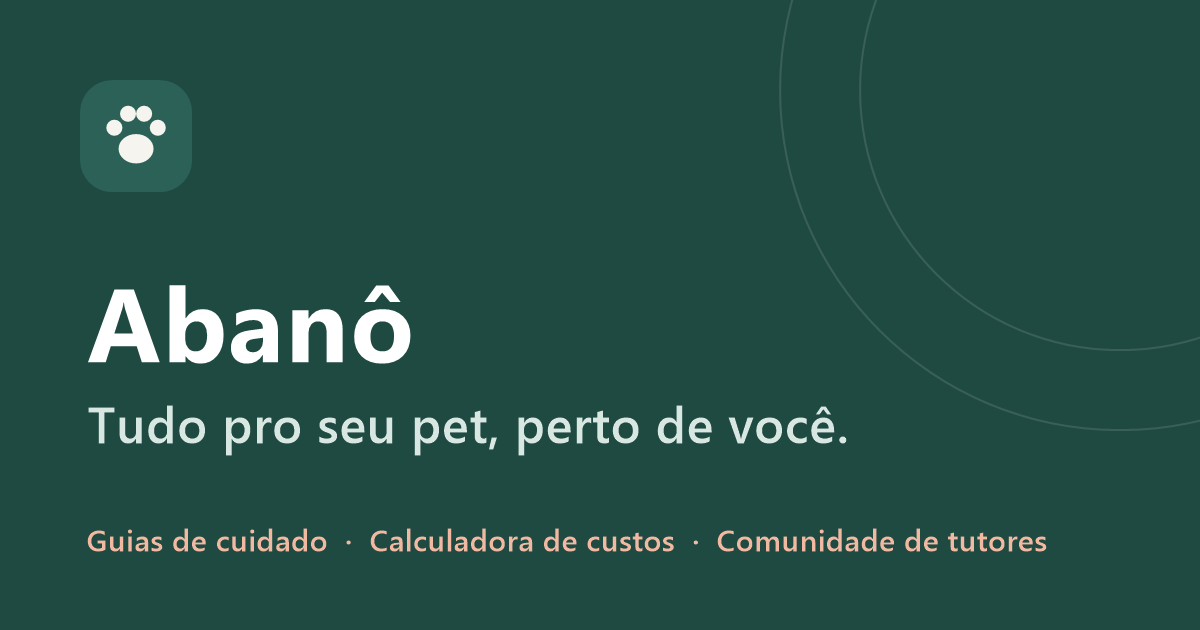
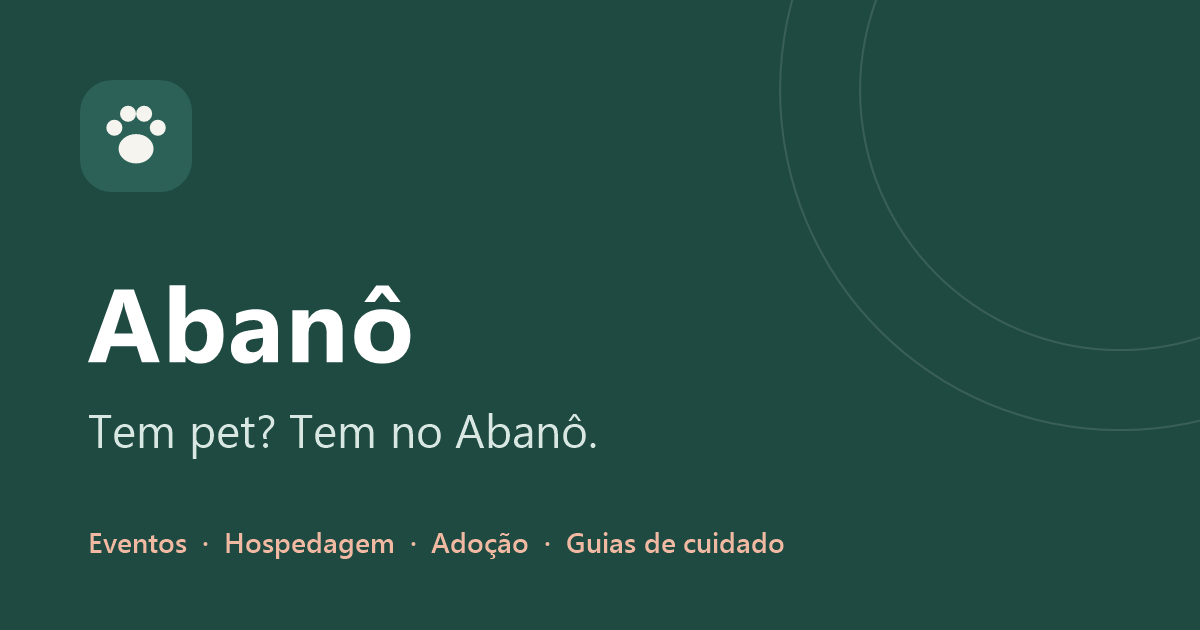
Novo posicionamento: Tem pet? Tem no Abanô.
Página inicial com a nova frase, cards de eventos, hospedagem,
adoção e doador de sangue, rodapés e imagem de compartilhamento.

Changed region(s): [[0.0617, 0.6333, 0.7092, 0.7238], [0.0617, 0.8444, 0.8942, 0.9048]]

diff --git a/index.html b/index.html
@@ -3,10 +3,10 @@
 <head>
 <meta charset="UTF-8">
 <meta name="viewport" content="width=device-width, initial-scale=1.0, viewport-fit=cover">
-<title>Abanô — tudo pro seu pet, perto de você</title>
-<meta name="description" content="Abanô: o ponto de encontro dos tutores de cães e gatos. Guia, calculadora de custos, pets perdidos e encontrados, encontros e muito mais. Entre na lista de espera!">
-<meta property="og:title" content="Abanô — tudo pro seu pet, perto de você">
-<meta property="og:description" content="O ponto de encontro dos tutores de cães e gatos. Entre na lista de espera!">
+<title>Abanô — Tem pet? Tem no Abanô.</title>
+<meta name="description" content="Tem pet? Tem no Abanô. Eventos, hospedagem, veterinários, adoção, pets perdidos e guias de cuidado para cães e gatos, tudo num lugar só e perto de você. Entre na lista de espera!">
+<meta property="og:title" content="Tem pet? Tem no Abanô.">
+<meta property="og:description" content="Eventos, hospedagem, veterinários, adoção e pets perdidos perto de você. Tudo pra cães e gatos, num lugar só.">
 <link rel="icon" href="favicon.svg" type="image/svg+xml">
 <link rel="icon" href="favicon-32.png" sizes="32x32" type="image/png">
 <link rel="apple-touch-icon" href="apple-touch-icon.png">
@@ -28,7 +28,7 @@
   /* ---------- Abertura ---------- */
   .hero{display:grid;grid-template-columns:1.1fr .9fr;gap:64px;align-items:center;padding-top:76px;padding-bottom:96px}
   .hero h1{font-size:clamp(42px,6.2vw,72px);margin:20px 0 22px}
-  .hero h1 em{font-style:normal;color:var(--marca)}
+  .hero h1 em{font-style:normal;color:var(--marca);white-space:nowrap}
   .lead{font-size:19px;color:var(--suave);max-width:520px}
   .acoes{display:flex;flex-wrap:wrap;gap:12px;margin-top:34px}
   .assinatura{display:flex;align-items:center;gap:12px;margin-top:40px;font-size:14px;color:var(--suave)}
@@ -111,12 +111,14 @@
     .hero{grid-template-columns:1fr;gap:48px;padding-top:48px;padding-bottom:64px}
     .cabeca{grid-template-columns:1fr;gap:12px}
     .cards{grid-template-columns:1fr 1fr}
+    .cards > :last-child:nth-child(odd){grid-column:1 / -1}
     .historia{grid-template-columns:1fr;gap:20px;padding:44px 28px}
     .espera{grid-template-columns:1fr;gap:36px}
     section{padding:64px 0}
   }
   @media (max-width:600px){
     .cards{grid-template-columns:1fr}
+    .cards > :last-child:nth-child(odd){grid-column:auto}
     .duas{grid-template-columns:1fr;gap:0}
     .previa{padding:22px}
     .previa-valor{font-size:44px}
@@ -148,8 +150,8 @@
   <div class="wrap hero">
     <div>
       <span class="eyebrow surge" style="--i:0">Para tutores de cães e gatos</span>
-      <h1 class="surge" style="--i:1">Tudo pro seu pet, <em>perto de você.</em></h1>
-      <p class="lead surge" style="--i:2">O Abanô reúne o que todo tutor procura: guias de cuidado confiáveis, ferramentas práticas, pets perdidos e encontrados, encontros e serviços avaliados por quem também tem pet.</p>
+      <h1 class="surge" style="--i:1">Tem pet? <em>Tem no Abanô.</em></h1>
+      <p class="lead surge" style="--i:2">Eventos, hospedagem, veterinários, adoção, pets perdidos e guias de cuidado perto de você. Tudo pra cães e gatos, num lugar só.</p>
       <div class="acoes surge" style="--i:3">
         <a href="#lista" class="btn">Entrar na lista de espera</a>
         <a href="husky-solta-muito-pelo.html" class="btn btn-sec">Ler o Guia do Husky</a>
@@ -181,9 +183,9 @@
       <div class="cabeca">
         <div>
           <span class="eyebrow">O que estamos construindo</span>
-          <h2>Um lugar só para cuidar melhor do seu pet</h2>
+          <h2>Tudo do seu pet, num lugar só</h2>
         </div>
-        <p>Duas ferramentas já estão no ar. As outras estão sendo construídas com a ajuda de quem entra na lista de espera.</p>
+        <p>Sem pular de site em site. Duas ferramentas já estão no ar, e as outras estão sendo construídas com a ajuda de quem entra na lista de espera.</p>
       </div>
 
       <div class="cards">
@@ -226,16 +228,40 @@
             <span class="ico"><svg viewBox="0 0 24 24" fill="none" stroke="currentColor" stroke-width="1.6" stroke-linecap="round" stroke-linejoin="round" aria-hidden="true"><circle cx="9" cy="8" r="3"/><path d="M3.5 20a5.5 5.5 0 0 1 11 0"/><circle cx="17" cy="9" r="2.5"/><path d="M16 14.2a4.5 4.5 0 0 1 5 4.8"/></svg></span>
             <span class="tag breve">Em breve</span>
           </div>
-          <h3>Encontros</h3>
-          <p>Encontros de tutores e pets na sua região, a começar pelo Encontro de Huskies de Maricá.</p>
+          <h3>Eventos pet</h3>
+          <p>Encontros, feiras e passeios pet perto de você, a começar pelo Encontro de Huskies de Maricá.</p>
+        </div>
+        <div class="card">
+          <div class="card-topo">
+            <span class="ico"><svg viewBox="0 0 24 24" fill="none" stroke="currentColor" stroke-width="1.6" stroke-linecap="round" stroke-linejoin="round" aria-hidden="true"><path d="M4 11 12 4l8 7"/><path d="M6 9.5V20h12V9.5"/><path d="M10 20v-5h4v5"/></svg></span>
+            <span class="tag breve">Em breve</span>
+          </div>
+          <h3>Hospedagem</h3>
+          <p>Hotéis, creches e anfitriões para cães e gatos perto de você, para viajar tranquilo.</p>
         </div>
         <div class="card">
           <div class="card-topo">
             <span class="ico"><svg viewBox="0 0 24 24" fill="none" stroke="currentColor" stroke-width="1.6" stroke-linecap="round" stroke-linejoin="round" aria-hidden="true"><path d="M12 21s-7-6.2-7-11.2a7 7 0 0 1 14 0C19 14.8 12 21 12 21z"/><circle cx="12" cy="9.8" r="2.5"/></svg></span>
             <span class="tag breve">Em breve</span>
           </div>
-          <h3>Perto de mim</h3>
-          <p>Veterinários, clínicas 24h, hotéis, adestradores e lugares pet friendly avaliados por tutores.</p>
+          <h3>Veterinários e serviços</h3>
+          <p>Veterinários, clínicas 24h, banho e tosa, adestradores e lugares pet friendly avaliados por tutores.</p>
+        </div>
+        <div class="card">
+          <div class="card-topo">
+            <span class="ico"><svg viewBox="0 0 24 24" fill="none" stroke="currentColor" stroke-width="1.6" stroke-linecap="round" stroke-linejoin="round" aria-hidden="true"><path d="M12 20s-7.5-4.6-7.5-10A4.3 4.3 0 0 1 12 7.4 4.3 4.3 0 0 1 19.5 10c0 5.4-7.5 10-7.5 10z"/></svg></span>
+            <span class="tag breve">Em breve</span>
+          </div>
+          <h3>Adoção</h3>
+          <p>Cães e gatos esperando um lar, de ONGs e protetores da sua região.</p>
+        </div>
+        <div class="card">
+          <div class="card-topo">
+            <span class="ico"><svg viewBox="0 0 24 24" fill="none" stroke="currentColor" stroke-width="1.6" stroke-linecap="round" stroke-linejoin="round" aria-hidden="true"><path d="M12 3.5s6 6.4 6 10.7a6 6 0 0 1-12 0C6 9.9 12 3.5 12 3.5z"/><path d="M12 11v5M9.5 13.5h5"/></svg></span>
+            <span class="tag breve">Em breve</span>
+          </div>
+          <h3>Doador de sangue</h3>
+          <p>Encontre um cão ou gato doador quando seu pet precisar, ou cadastre o seu para ajudar.</p>
         </div>
       </div>
     </div>
@@ -249,7 +275,7 @@
           <h2>Nasceu numa casa com quatro huskies e dois gatos.</h2>
         </div>
         <div>
-          <p>O Abanô foi criado pela família do Juninho, da Lua, da Pérola e da Tiquinha, e também do Nico e do Noah. A gente sabe o que é procurar ajuda e não achar, e quer que nenhum tutor passe por isso sozinho.</p>
+          <p>O Abanô foi criado pela família do Juninho, da Lua, da Pérola e da Tiquinha, e também do Nico e do Noah. A gente cansou de procurar coisa de pet em dez lugares diferentes: um evento aqui, um hotel ali, um veterinário em outro canto. Então resolvemos juntar tudo num lugar só.</p>
           <a href="https://www.instagram.com/juninhoohusky/" class="btn" target="_blank" rel="noopener">Conheça o @juninhoohusky</a>
         </div>
       </div>
@@ -302,9 +328,11 @@
         <select id="interesse" name="interesse">
           <option>Guia e dicas de cuidados</option>
           <option>Perdidos e encontrados</option>
-          <option>Encontros de pets</option>
-          <option>Achar serviços perto de mim</option>
+          <option>Eventos pet</option>
+          <option>Hospedagem</option>
+          <option>Veterinários e serviços perto de mim</option>
           <option>Adoção</option>
+          <option>Doador de sangue</option>
         </select>
 
         <p id="form-aviso" class="form-aviso" role="alert" hidden></p>
@@ -322,7 +350,7 @@
         <svg viewBox="0 0 32 32" aria-hidden="true"><rect width="32" height="32" rx="9" fill="#1E4D45"/><g fill="#F6F4EF"><ellipse cx="16" cy="19.6" rx="5" ry="4.2"/><circle cx="9.8" cy="13.6" r="2.3"/><circle cx="13.7" cy="9.6" r="2.3"/><circle cx="18.3" cy="9.6" r="2.3"/><circle cx="22.2" cy="13.6" r="2.3"/></g></svg>
         Abanô
       </a>
-      <p>A plataforma dos tutores de cães e gatos: cuidados, serviços e comunidade, perto de você.</p>
+      <p>Tudo pra cães e gatos, num lugar só: eventos, hospedagem, veterinários, adoção e cuidados perto de você.</p>
     </div>
     <div>
       <h4>Conteúdo</h4>

diff --git a/privacidade.html b/privacidade.html
@@ -122,7 +122,7 @@
         <svg viewBox="0 0 32 32" aria-hidden="true"><rect width="32" height="32" rx="9" fill="#1E4D45"/><g fill="#F6F4EF"><ellipse cx="16" cy="19.6" rx="5" ry="4.2"/><circle cx="9.8" cy="13.6" r="2.3"/><circle cx="13.7" cy="9.6" r="2.3"/><circle cx="18.3" cy="9.6" r="2.3"/><circle cx="22.2" cy="13.6" r="2.3"/></g></svg>
         Abanô
       </a>
-      <p>A plataforma dos tutores de cães e gatos: cuidados, serviços e comunidade, perto de você.</p>
+      <p>Tudo pra cães e gatos, num lugar só: eventos, hospedagem, veterinários, adoção e cuidados perto de você.</p>
     </div>
     <div>
       <h4>Conteúdo</h4>
@@ -141,7 +141,7 @@
       </ul>
     </div>
   </div>
-  <div class="rodape-base"><span>© 2026 Abanô</span><span>Tudo pro seu pet, perto de você.</span></div>
+  <div class="rodape-base"><span>© 2026 Abanô</span><span>Tem pet? Tem no Abanô.</span></div>
 </footer>
 </body>
 </html>

diff --git a/novidades.html b/novidades.html
@@ -82,7 +82,7 @@
         <svg viewBox="0 0 32 32" aria-hidden="true"><rect width="32" height="32" rx="9" fill="#1E4D45"/><g fill="#F6F4EF"><ellipse cx="16" cy="19.6" rx="5" ry="4.2"/><circle cx="9.8" cy="13.6" r="2.3"/><circle cx="13.7" cy="9.6" r="2.3"/><circle cx="18.3" cy="9.6" r="2.3"/><circle cx="22.2" cy="13.6" r="2.3"/></g></svg>
         Abanô
       </a>
-      <p>A plataforma dos tutores de cães e gatos: cuidados, serviços e comunidade, perto de você.</p>
+      <p>Tudo pra cães e gatos, num lugar só: eventos, hospedagem, veterinários, adoção e cuidados perto de você.</p>
     </div>
     <div>
       <h4>Conteúdo</h4>
@@ -101,7 +101,7 @@
       </ul>
     </div>
   </div>
-  <div class="rodape-base"><span>© 2026 Abanô</span><span>Tudo pro seu pet, perto de você.</span></div>
+  <div class="rodape-base"><span>© 2026 Abanô</span><span>Tem pet? Tem no Abanô.</span></div>
 </footer>
 
 <script>

diff --git a/calculadora.html b/calculadora.html
@@ -272,7 +272,7 @@
         <svg viewBox="0 0 32 32" aria-hidden="true"><rect width="32" height="32" rx="9" fill="#1E4D45"/><g fill="#F6F4EF"><ellipse cx="16" cy="19.6" rx="5" ry="4.2"/><circle cx="9.8" cy="13.6" r="2.3"/><circle cx="13.7" cy="9.6" r="2.3"/><circle cx="18.3" cy="9.6" r="2.3"/><circle cx="22.2" cy="13.6" r="2.3"/></g></svg>
         Abanô
       </a>
-      <p>A plataforma dos tutores de cães e gatos: cuidados, serviços e comunidade, perto de você.</p>
+      <p>Tudo pra cães e gatos, num lugar só: eventos, hospedagem, veterinários, adoção e cuidados perto de você.</p>
     </div>
     <div>
       <h4>Conteúdo</h4>

diff --git a/husky-solta-muito-pelo.html b/husky-solta-muito-pelo.html
@@ -200,7 +200,7 @@
         <svg viewBox="0 0 32 32" aria-hidden="true"><rect width="32" height="32" rx="9" fill="#1E4D45"/><g fill="#F6F4EF"><ellipse cx="16" cy="19.6" rx="5" ry="4.2"/><circle cx="9.8" cy="13.6" r="2.3"/><circle cx="13.7" cy="9.6" r="2.3"/><circle cx="18.3" cy="9.6" r="2.3"/><circle cx="22.2" cy="13.6" r="2.3"/></g></svg>
         Abanô
       </a>
-      <p>A plataforma dos tutores de cães e gatos: cuidados, serviços e comunidade, perto de você.</p>
+      <p>Tudo pra cães e gatos, num lugar só: eventos, hospedagem, veterinários, adoção e cuidados perto de você.</p>
     </div>
     <div>
       <h4>Conteúdo</h4>

diff --git a/descadastrar.html b/descadastrar.html
@@ -58,7 +58,7 @@
   </div>
 </main>
 <footer class="rodape">
-  <div class="rodape-base"><span>© 2026 Abanô</span><span>Tudo pro seu pet, perto de você.</span></div>
+  <div class="rodape-base"><span>© 2026 Abanô</span><span>Tem pet? Tem no Abanô.</span></div>
 </footer>
 <script>
 document.addEventListener("DOMContentLoaded", function () {

diff --git a/obrigado.html b/obrigado.html
@@ -53,7 +53,7 @@
   </div>
 </main>
 <footer class="rodape">
-  <div class="rodape-base"><span>© 2026 Abanô</span><span>Tudo pro seu pet, perto de você.</span></div>
+  <div class="rodape-base"><span>© 2026 Abanô</span><span>Tem pet? Tem no Abanô.</span></div>
 </footer>
 </body>
 </html>
